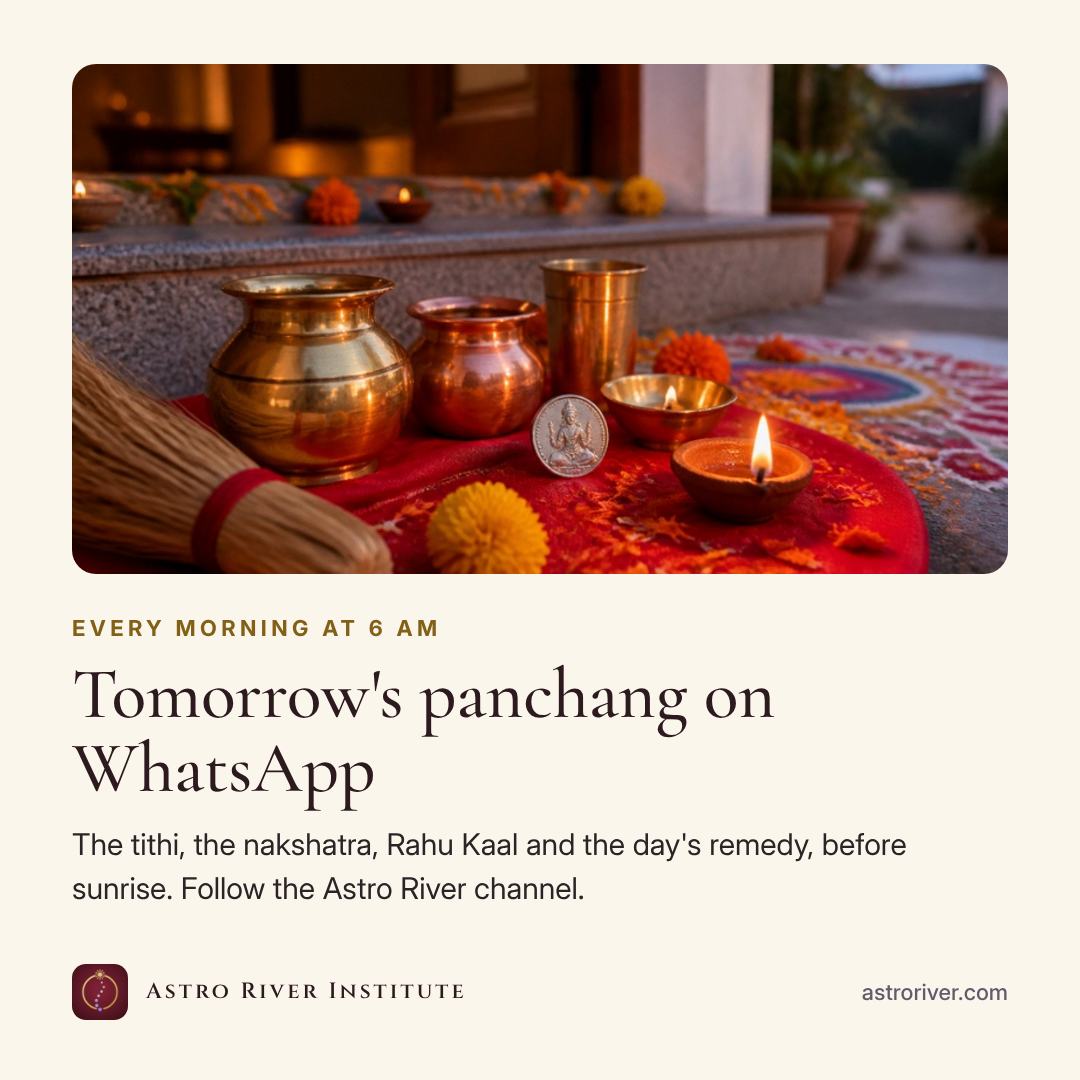
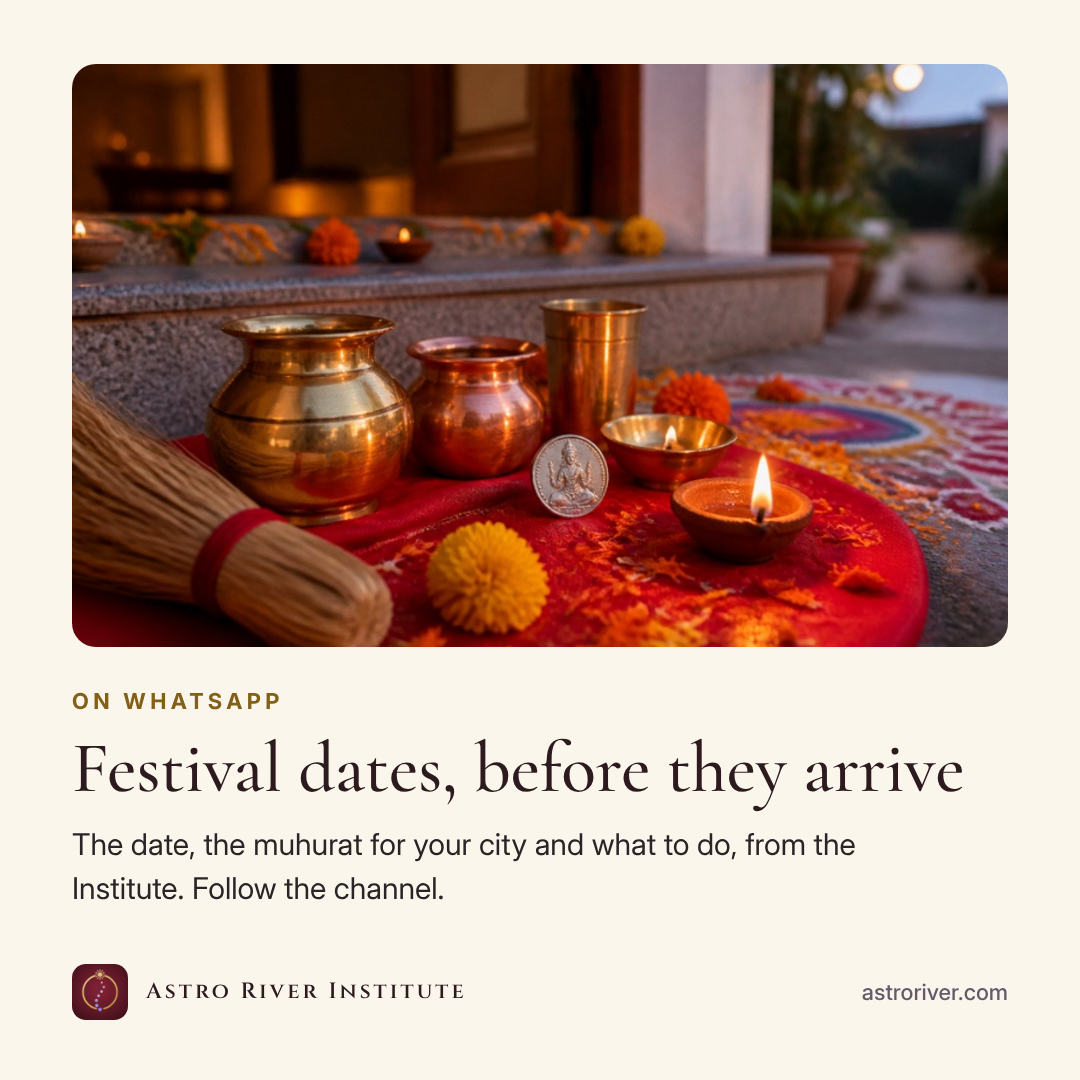
WhatsApp copy: festival dates before they arrive; no daily 6 am promise (template square and home card)

diff --git a/brand/home-design-4-2026-10-27/src/home.html b/brand/home-design-4-2026-10-27/src/home.html
@@ -59,7 +59,7 @@
 .signs span.mine{background:var(--primary);color:var(--on-primary);border-color:var(--primary)}.signs span.mine i{color:var(--on-primary)}
 .signs span.now{border:1.5px solid var(--gold)}
 .signs span small{display:block;font:700 9.5px/1.2 "Inter";letter-spacing:.06em;text-transform:uppercase;margin-top:3px}
-/* tomorrow at 6 am */
+/* on WhatsApp */
 .wa{padding:18px;display:flex;gap:16px;align-items:center;background:var(--tint-saffron);box-shadow:none;border:1px solid var(--line)}
 .wa .pic{width:84px;height:104px;border-radius:14px;overflow:hidden;flex:none}
 .wa h3{font:600 24px/1.1 "Cormorant";color:var(--heading)}
@@ -447,12 +447,12 @@ const week = () => `
     </div>
   </div>`;
 
-/* 9 · tomorrow at 6 am */
+/* 9 · on WhatsApp (the founder posts by hand before festivals; no daily promise) */
 const tomorrow = () => `
   <div class="sec">
     <div class="card wa">
-      <div style="min-width:0"><div class="over">Tomorrow at 6 am</div><h3 style="margin-top:6px">Get tomorrow's panchang on WhatsApp</h3>
-        <p>The tithi, the nakshatra, Rahu Kaal and the day's remedy, before sunrise. On our WhatsApp channel; leave it whenever you like.</p>
+      <div style="min-width:0"><div class="over">On WhatsApp</div><h3 style="margin-top:6px">Festival dates, before they arrive</h3>
+        <p>The date, the muhurat for your city and what to do, from the Institute. Follow the channel.</p>
         <div class="row" style="gap:14px"><a href="https://whatsapp.com/channel/0029Vb92NvV2v1J203DyVy39" class="btn solid">Follow the channel</a><a href="https://instagram.com/astroriverofficial" class="ig">Instagram →</a></div></div>
     </div>
   </div>`;

diff --git a/brand/home-design-4-2026-10-27/README.md b/brand/home-design-4-2026-10-27/README.md
@@ -99,7 +99,7 @@ Sections not listed here are as in 3.1.
 | 6 | Today's ePooja | Monday's Shiv puja becomes "Mangalvar Hanuman puja". Still opening soon, with no button. |
 | 7 | Rashifal | With details, Kumbha is pre-picked and labelled "your Moon sign", and the Moon's current sign is marked "Moon now". |
 | 8 | This week | Updated to 27 Oct: Karwa Chauth in 2 days, Dhanteras in 10, Diwali in 12. |
-| 9 | **Tomorrow at 6 am** (new) | One warm card: "Get tomorrow's panchang on WhatsApp", with "Follow the channel" → the channel, and a small Instagram link. |
+| 9 | **On WhatsApp** (new; copy fixed after approval) | One warm card: overline "On WhatsApp", heading "Festival dates, before they arrive", line "The date, the muhurat for your city and what to do, from the Institute. Follow the channel." Then "Follow the channel" → the channel, and a small Instagram link. There is no daily-post promise: the founder posts by hand, before festivals. |
 | 10–13 | Verse, texts, free tools, learn | Unchanged. The course card now reads "Today's is Bharani". |
 | 14 | **Pujas** (changed) | Three cards: Diwali Lakshmi Puja; Navagraha Shanti Puja with the Institute's own photograph (`img/havan-kund.jpg`, from the live puja page), captioned "From the Institute's ceremonies"; "All pujas →". Under them: "Photos of your puja are sent to you after the ceremony." |
 | 16 | **Ask** (changed) | The private consultation is now a full card, the same size as "Ask a question": what it is (live, audio or chat, English, Hindi or Punjabi, by the minute, fifteen minutes at least) and "Book →". It shows no price, because /consultation shows none. There is no face and no name. Vedansh and Tara keep a name and one line each ("Opens the lobby"), under "AI astrologers · by the minute, any hour". Build note: the names come from live data, the /lobby source; do not hard-code them. |
@@ -208,7 +208,7 @@ Unchanged rows from 3.1 are repeated, so this is the whole list. "Sign-in" means
 | Today's ePooja | SOON, with no button |
 | Rashifal signs | /rashifal/mesh … /rashifal/meen |
 | This week: heading, day cells, festival cards | /journal/jupiter-in-leo-2026 · /panchang (Thu → /journal/karwa-chauth, Sat → /journal/jupiter-in-leo-2026) · /journal/karwa-chauth, /journal/diwali/dhanteras, /journal/diwali |
-| Tomorrow at 6 am: Follow the channel · Instagram | https://whatsapp.com/channel/0029Vb92NvV2v1J203DyVy39 · https://instagram.com/astroriverofficial |
+| On WhatsApp: Follow the channel · Instagram | https://whatsapp.com/channel/0029Vb92NvV2v1J203DyVy39 · https://instagram.com/astroriverofficial |
 | Verse: Share | native share sheet |
 | The texts | SOON |
 | Charts and calculations (4 cards) · See all → | /kundli, /kundli-matching, /muhurat, /manglik-dosha · /tools (sign-in) |
@@ -289,6 +289,7 @@ Start from this folder. `src/home.html` with `src/data.js` is the reference. Eac
 - **Part of day and theme:** use the code's four parts exactly. Night A switches on at the city's sunset, and the visitor's toggle wins.
 - **Your sky:** shown only when birth details are saved. Otherwise show the invitation with the ghosted example. There is no Ashtakavarga score.
 - **Ticks:** stored on the device and cleared at the next sunrise for the city.
+- **WhatsApp card (after approval):** "On WhatsApp" / "Festival dates, before they arrive" / "The date, the muhurat for your city and what to do, from the Institute. Follow the channel." Never promise a daily or 6 am post; the channel is posted by hand, before festivals.
 - **Words (4.5):** "Charts and calculations", "Charts" in the tab bar and the desktop menu, and "See all →". The routes are unchanged.
 - **Stories:** build the six circles from the engines named in "Stories". Only circle 6 needs the office (a short list with expiry dates). Store seen rings on the device and reset them at sunrise.
 - **Soon:** a feature that is not live has an "Opening soon" line or tag, and never a button.

diff --git a/build/templates/README.md b/build/templates/README.md
@@ -39,7 +39,7 @@ node make.js posts/03-puja-diwali-lakshmi.json
 2. **Festival:** the date, why it matters and what to do, with the festival's painting.
 3. **Puja or sell:** the puja's painting or the Institute's ceremony photo, one line, and the real deadline. No price.
 4. **Carousel:** the cover (as a festival post), then inner pages with `rows`.
-5. **WhatsApp channel:** a square for the feed and a story.
+5. **WhatsApp channel:** a square for the feed and a story. Copy: "On WhatsApp" / "Festival dates, before they arrive". Never promise a daily or timed post; the founder posts by hand, before festivals.
 
 ## Rules (from the home page)
 - One strong picture per post: the deity paintings, the festival art, the Institute's own ceremony photos.
